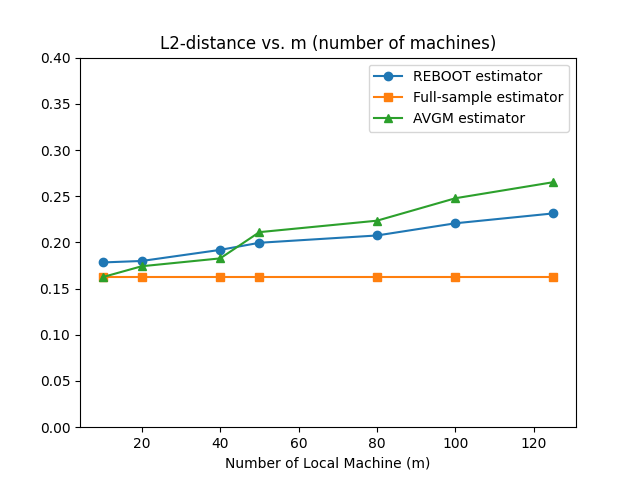
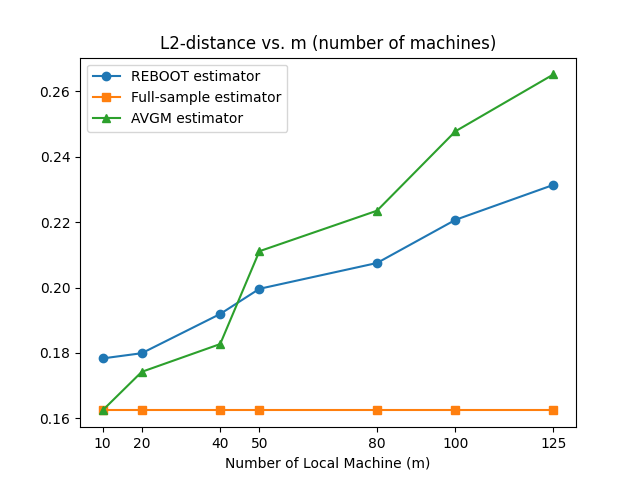
upload ground truth parameters

diff --git a/plots/Rasch_plot/plot_naive.py b/plots/Rasch_plot/plot_naive.py
@@ -47,8 +47,9 @@ if __name__ == "__main__":
     # plt.plot(K, local_d, marker='*', label="Local estimator")
     plt.legend()
     # plt.xlim(xmin=10)
-    plt.ylim(ymin=0, ymax=0.4)
+    # plt.ylim(ymin=0, ymax=0.4)
     plt.xlabel("Number of Local Machine (m)")
+    plt.xticks(K, K)
     plt.title("L2-distance vs. m (number of machines)")
     plt.savefig("plots/Rasch_plot/Rasch-4000.png")
     plt.close()
@@ -68,7 +69,7 @@ if __name__ == "__main__":
     # plt.plot(K, local_d, marker='*', label="Local estimator")
     plt.legend()
     # plt.xlim(xmin=10)
-    plt.ylim(ymin=0, ymax=0.7)
+    plt.ylim(ymin=0.1, ymax=0.7)
     plt.xlabel("Number of Local Machine (m)")
     plt.title("L2-distance vs. m (number of machines)")
     plt.savefig("plots/Rasch_plot/Rasch-75.png")

diff --git a/Simulation Results/Rasch.md b/Simulation Results/Rasch.md
@@ -43,10 +43,10 @@ Global Sample size: N = 2500
 
 ### Rasch Simulation Study (2) (Updated on Mar 30)
 
-Regime I: Fixed local sample size = 100.
+Regime I: Fixed local sample size = 75. (this is obtained by local inspection and experiments)
 Hidden Dimension: 50.
 
-Number of local machines (Global sample size): m = 5 (500), 10(1000), 15(1500), 20(2000), 25(2500), 30(3000).
+Number of local machines (Global sample size): m = 5, 10 , 15, 20, 25, 30, 35, 40.
 
 The experiments are run via the GreakLake supercomputing platform:
 
@@ -57,6 +57,13 @@ Regime II: Fixed global sample size = 4000.
 Hidden Dimension: 20
 
 Number of local machines (m): 10, 20, 40, 50, 80, 100
+
+Ground Truth Parameters:
+[1,] 0.016 0.008 -0.050 0.003 0.082 -0.177 0.076 0.119 0.135 0.053 \
+[2,] -0.099 -0.045 0.140 -0.124 -0.138 -0.187 -0.143 -0.025 0.049 0.042 \
+[3,] -0.195 -0.127 0.161 0.073 0.002 -0.181 -0.130 0.143 -0.022 -0.033 \
+[4,] -0.115 -0.115 0.150 -0.046 0.129 0.012 -0.131 -0.133 0.196 -0.135 \
+[5,] -0.108 -0.020 0.180 -0.073 -0.088 0.132 -0.041 0.118 0.097 -0.112
 
 ### Experimental Results:
 
@@ -80,4 +87,3 @@ Remark: the experiments of m=10, m=100 and m = 125 on greatlake is problematic b
 | CMIRT  | 0.5012 | 0.4887 | 0.4632 | 0.4226 | 0.3312 | 0.2843 | 0.2214 | 0.2034 |
 
 Note that all experiments for regime II are run on local computer with 25 Monte Carlo replications. Plan to run this on Greatlake with 100 Monte Carlo iterations later.
-
